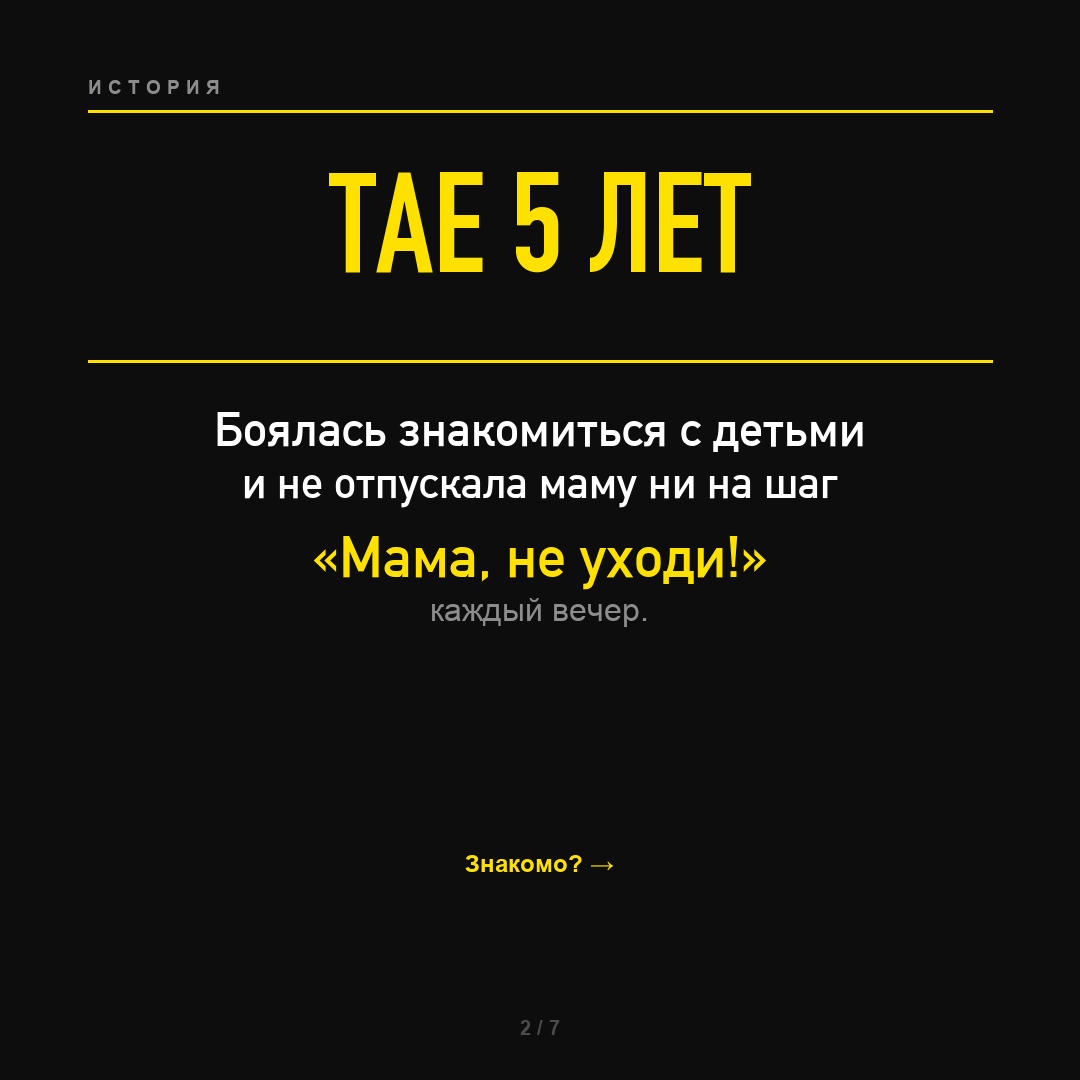
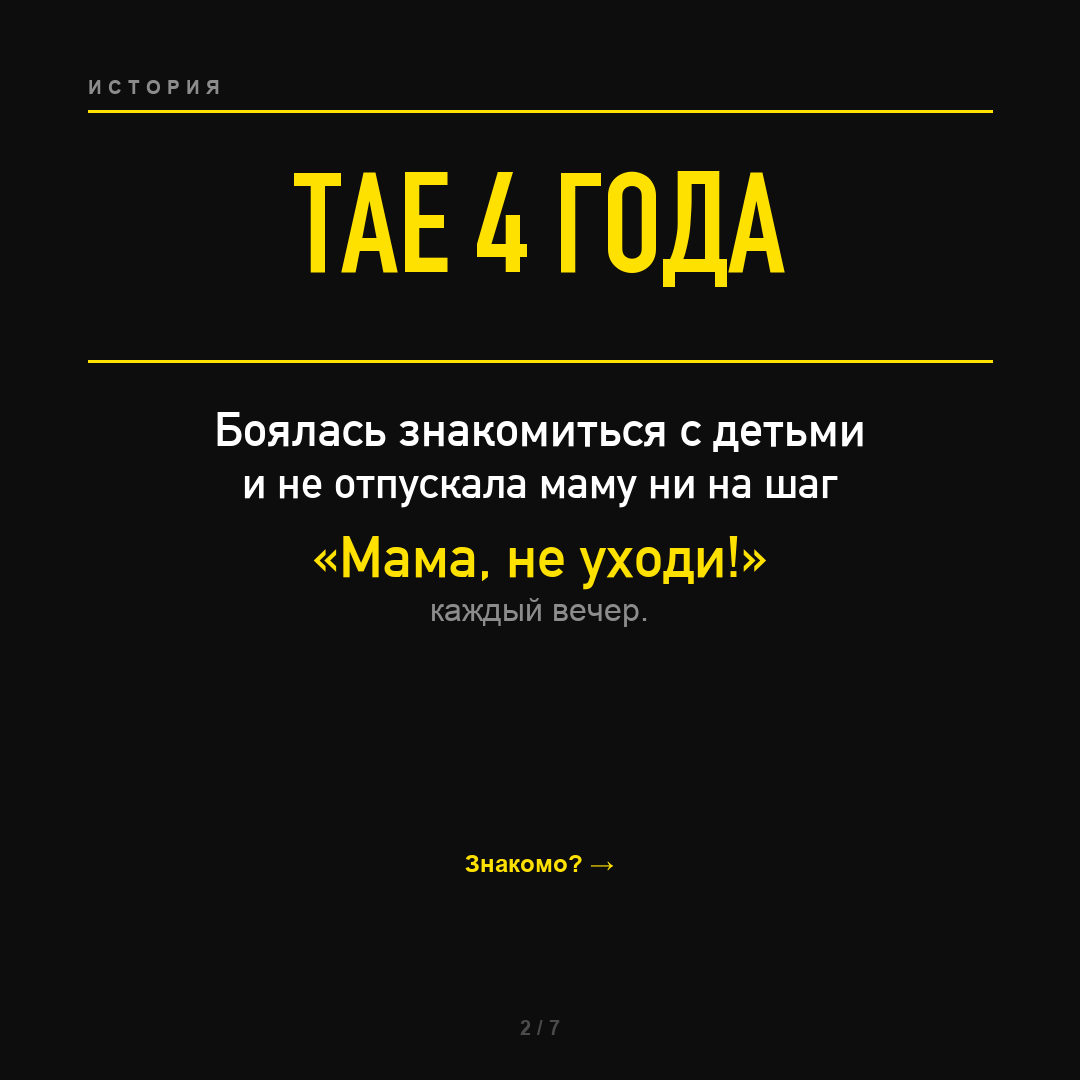
auto-sync 2026-05-24 12:45

Changed region(s): [[0.275, 0.1528, 0.7333, 0.275]]

diff --git a/marketing/cards/cards v2/generate_v2.py b/marketing/cards/cards v2/generate_v2.py
@@ -132,7 +132,7 @@ def card_02():
     label_left(draw, "ИСТОРИЯ")
     hline(draw, 110)
 
-    draw_centered(draw, "ТАЕ 5 ЛЕТ", 172, big(140), YELLOW)
+    draw_centered(draw, "ТАЕ 4 ГОДА", 172, big(140), YELLOW)
 
     hline(draw, 360)
 
